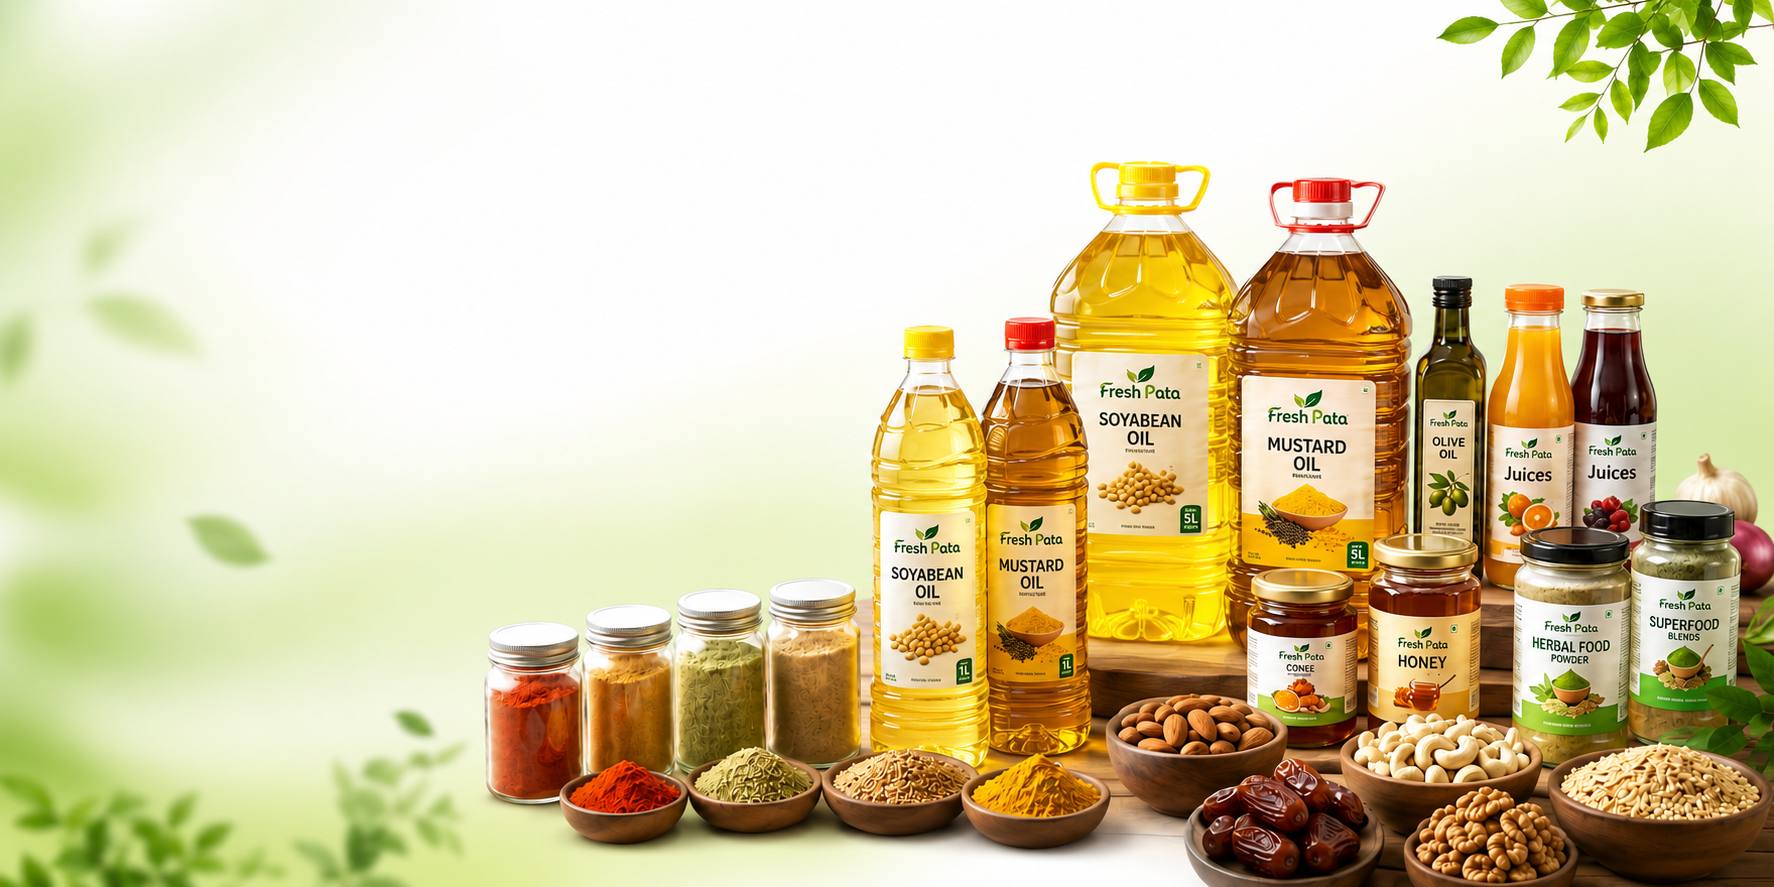
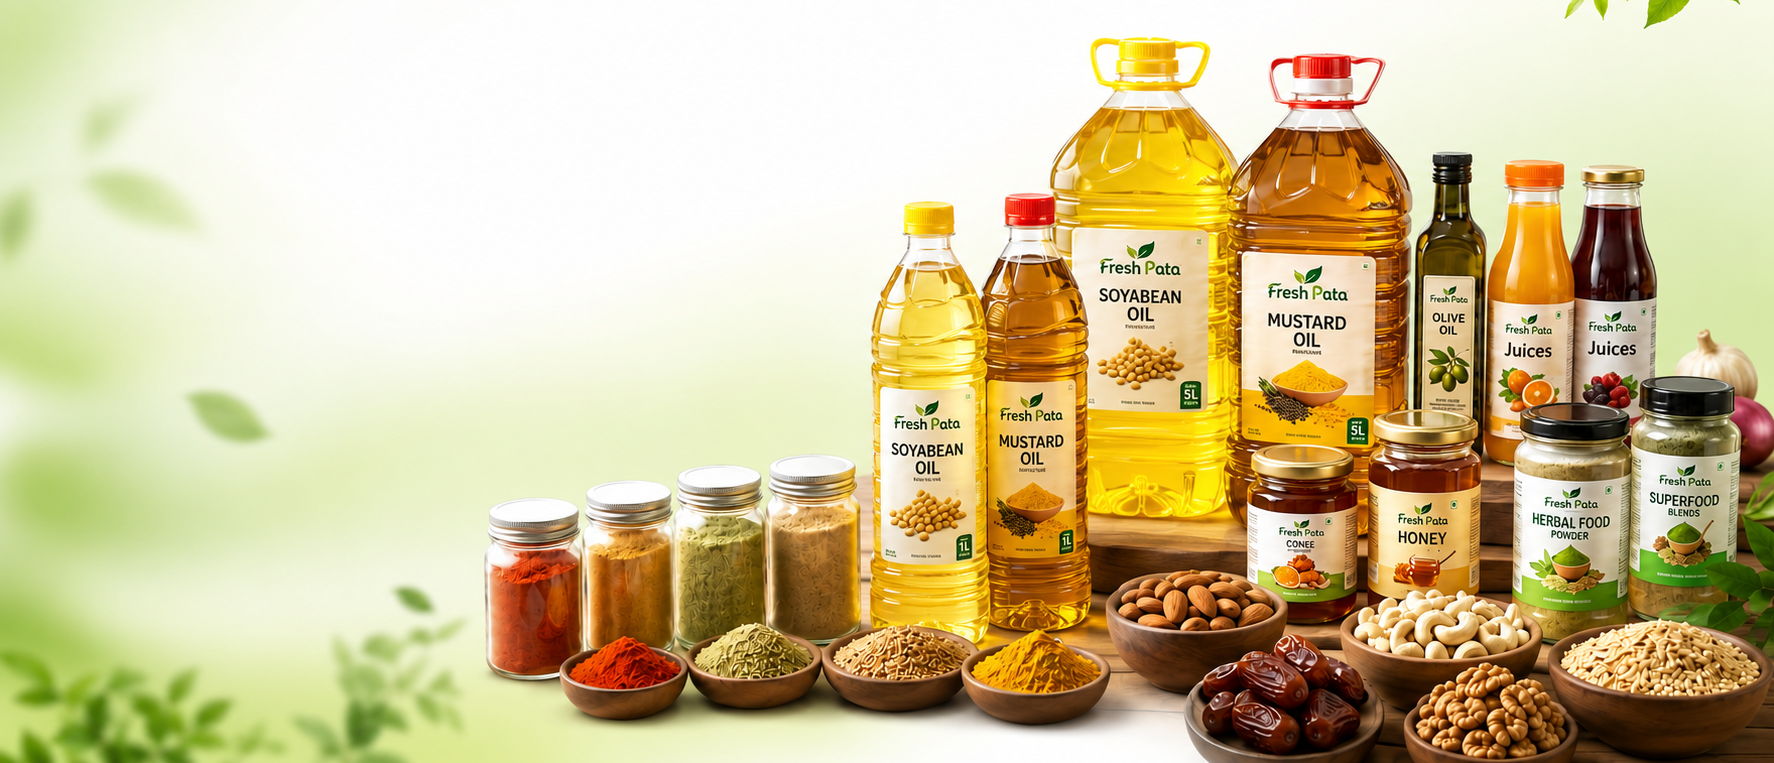
update

diff --git a/freshcart-1.0.0/src/index.html b/freshcart-1.0.0/src/index.html
@@ -247,7 +247,7 @@
                 <div class="flex md:space-x-2 lg:space-x-6 flex-wrap md:flex-nowrap">
                     <div class="w-full md:w-1/2 mb-3 lg:">
                         <div class="py-10 px-8 rounded-lg"
-                            style="background: url(@@webRoot/assets/images/banner/bb.png) no-repeat; background-size: cover; background-position: center">
+                            style="background: url(@@webRoot/assets/images/banner/bba.png) no-repeat; background-size: cover; background-position: center">
                             <div class="flex flex-col gap-5">
                                 <div class="flex flex-col gap-1">
                                     <h2 class="font-bold text-xl">Organic Products</h2>